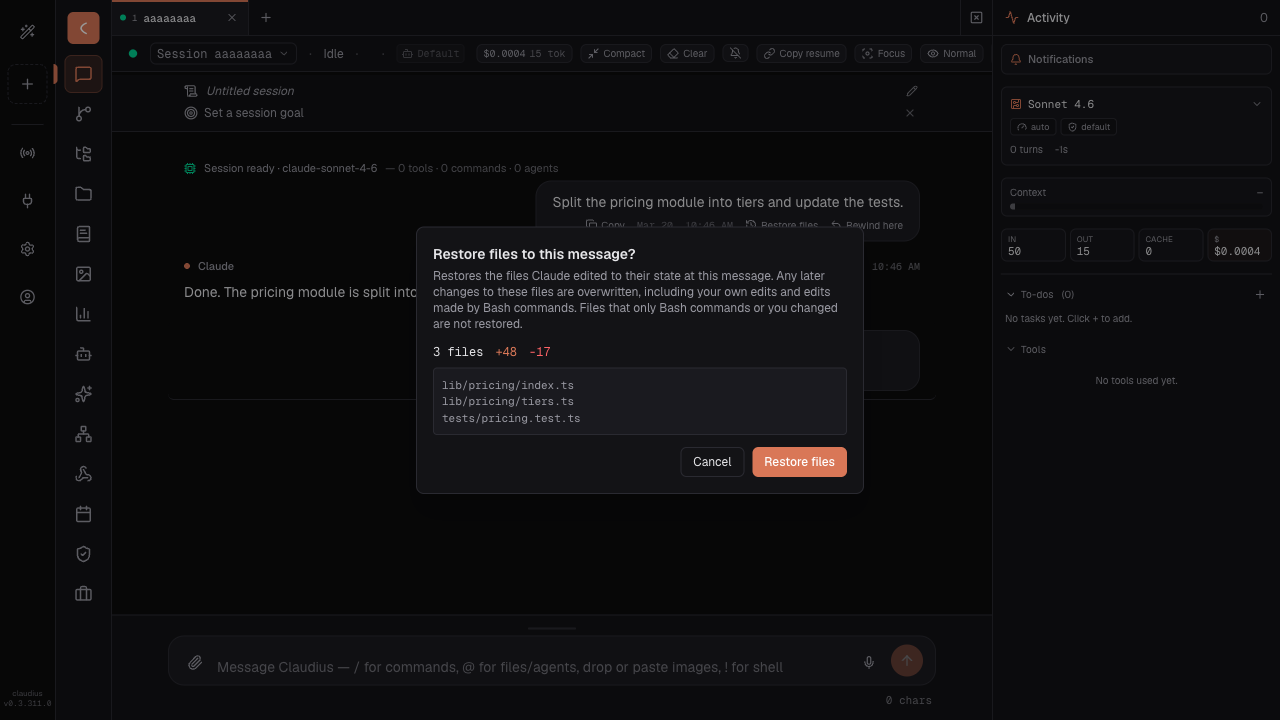
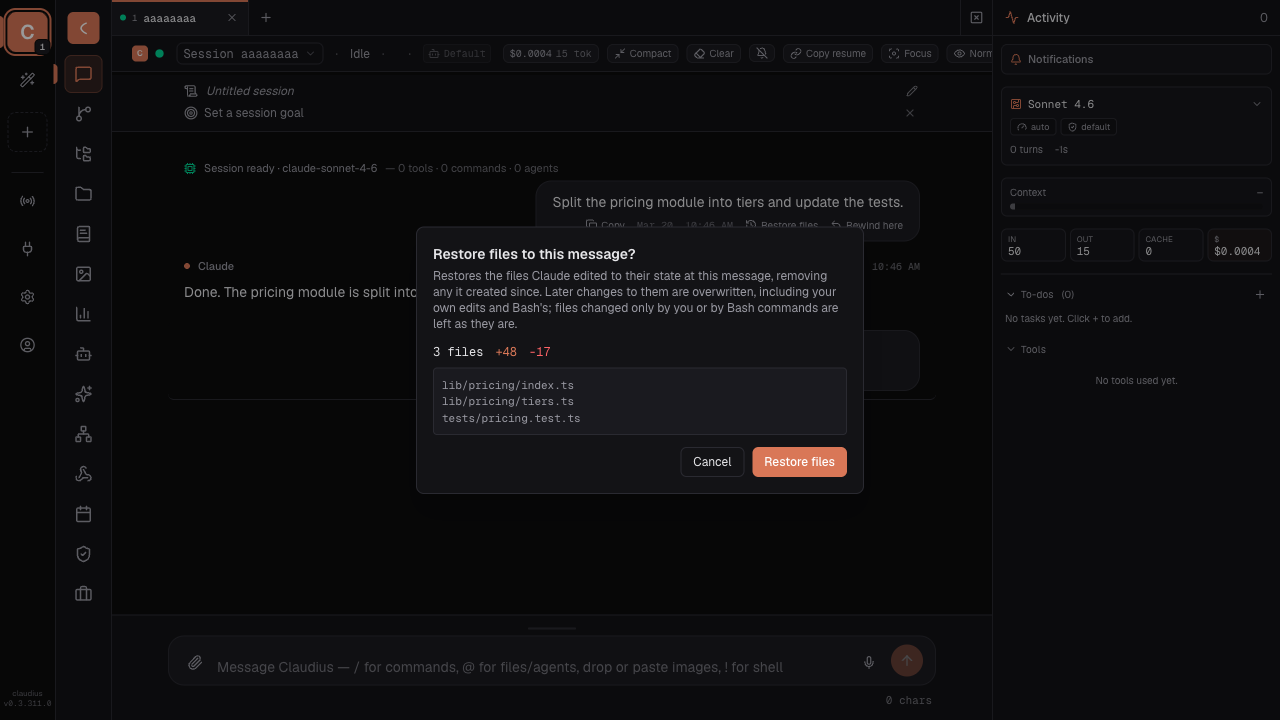
fix(cc-parity): refused sign-in code starts over; tighter Restore files copy (2.1.311)
- isRefusedAuthCode excludes account_on_hold like the engine does: signing
  in again can't fix an on-hold account.
- The server spends the OAuth flow on every attempt, so after an error both
  sign-in forms (/usage Add account, /welcome) drop back to the sign-in
  button instead of a code box that can only answer "flow expired".
- e2e + screenshot for the refused-code message in the /usage Accounts form.
- Restore files copy: two sentences, and says files Claude created since are
  removed (rewindFiles restores or deletes tracked files).

diff --git a/tests/e2e/cc-parity-2.1.311-refused-sign-in-code.spec.ts b/tests/e2e/cc-parity-2.1.311-refused-sign-in-code.spec.ts
@@ -1,0 +1,82 @@
+/**
+ * CC 2.1.311 parity — "Improved the message shown when a pasted sign-in code
+ * is refused: it now says the code may have expired or been used, and to sign
+ * in again".
+ *
+ * Claudius's "Add account" form on /usage runs its own paste-the-code OAuth
+ * flow (`lib/server/account-oauth.ts`). A refused code (`invalid_grant`, which
+ * OAuth servers send as a 400) used to surface as the raw
+ * `token exchange failed (400): {…}` body. It now reads the engine's string,
+ * and the form drops back to the sign-in button: the server spends the flow
+ * on every attempt, so the old code box could only answer "flow expired".
+ *
+ * `/api/accounts` and `/api/accounts/oauth` are mocked; the message itself is
+ * pinned against the real server code in
+ * `tests/unit/account-oauth-refused-code.test.ts`.
+ *
+ * Screenshot target: docs/cc-parity/2.1.311/refused-sign-in-code.png
+ */
+
+import { mkdirSync } from "node:fs";
+import { resolve } from "node:path";
+import { test, expect } from "../helpers/test";
+import { activateClaudiusWorkspace } from "./helpers/workspace";
+
+const SHOTS_DIR = resolve(process.cwd(), "docs/cc-parity/2.1.311");
+mkdirSync(SHOTS_DIR, { recursive: true });
+
+// Kept in step with REFUSED_AUTH_CODE_MESSAGE (server-only module, so not
+// imported into the browser-facing spec).
+const REFUSED =
+  "That code wasn't accepted. It may be incomplete, expired, already used, or from an earlier sign-in attempt. Sign in again to get a new code.";
+
+test.beforeEach(async ({ page }) => {
+  await activateClaudiusWorkspace(page);
+  await page.addInitScript(() => {
+    // The flow opens the sign-in page in a new tab; keep the test in one.
+    window.open = () => null;
+  });
+  await page.route("**/api/accounts", async (route) => {
+    if (route.request().method() !== "GET") return route.fallback();
+    return route.fulfill({
+      status: 200,
+      contentType: "application/json",
+      body: JSON.stringify({ profiles: [], activeProfileId: null, autoRotateOnRateLimit: false }),
+    });
+  });
+  await page.route("**/api/accounts/oauth", async (route) => {
+    const body = route.request().postDataJSON() as { action?: string };
+    if (body.action === "start") {
+      return route.fulfill({
+        status: 200,
+        contentType: "application/json",
+        body: JSON.stringify({ flowId: "flow-311", authUrl: "https://claude.ai/oauth/authorize?state=x" }),
+      });
+    }
+    return route.fulfill({
+      status: 400,
+      contentType: "application/json",
+      body: JSON.stringify({ error: REFUSED }),
+    });
+  });
+});
+
+test("a refused pasted sign-in code says to sign in again, and the form starts over", async ({ page }) => {
+  await page.goto("/usage");
+  await page.getByTestId("accounts-add-btn").click();
+  await page.getByTestId("account-add-label").fill("Work");
+  await page.getByTestId("account-oauth-start").click();
+  await page.getByTestId("account-oauth-code").fill("stale-code#x");
+  await page.getByTestId("account-oauth-submit").click();
+
+  const error = page.getByTestId("account-add-error");
+  await expect(error).toHaveText(REFUSED);
+  await expect(error).not.toContainText("token exchange failed");
+  // The spent flow is gone: the code box is replaced by the sign-in button.
+  await expect(page.getByTestId("account-oauth-code")).toHaveCount(0);
+  await expect(page.getByTestId("account-oauth-start")).toBeVisible();
+
+  const section = page.getByTestId("accounts-add-btn").or(page.getByTestId("account-add-label")).first();
+  await section.scrollIntoViewIfNeeded();
+  await page.screenshot({ path: resolve(SHOTS_DIR, "refused-sign-in-code.png") });
+});

diff --git a/components/chat/RewindFilesButton.tsx b/components/chat/RewindFilesButton.tsx
@@ -183,12 +183,14 @@ function RewindPreview({
           old copy ("Unsaved later edits … will be lost") implied saved edits
           were safe. The SDK's `rewindFiles` writes each checkpointed file
           back whatever changed it since, so later manual and Bash edits to
-          these files are overwritten too. Files that only Bash or the user
-          touched aren't checkpointed, so they're left as they are. */}
+          these files are overwritten too, and files Claude created since are
+          removed (`rewindFiles` restores or deletes tracked files). Files that
+          only Bash or the user touched aren't checkpointed, so they're left as
+          they are. */}
       <p data-testid="restore-files-preview-note" className="mb-3 text-xs text-[var(--muted)]">
-        Restores the files Claude edited to their state at this message. Any later changes to these
-        files are overwritten, including your own edits and edits made by Bash commands. Files that
-        only Bash commands or you changed are not restored.
+        Restores the files Claude edited to their state at this message, removing any it created
+        since. Later changes to them are overwritten, including your own edits and Bash&apos;s; files
+        changed only by you or by Bash commands are left as they are.
       </p>
       <FileStat result={result} />
       <div className="flex justify-end gap-2">

diff --git a/app/usage/page.tsx b/app/usage/page.tsx
@@ -751,6 +751,11 @@ function AccountsSection({
       reset();
     } catch (err) {
       setAddError(err instanceof Error ? err.message : String(err));
+      // The server spends the flow on every attempt, so the code box would
+      // only answer "flow expired" next time. Drop back to the start button
+      // so the user can sign in again, as the error tells them to (CC 2.1.311).
+      setFlow(null);
+      setOauthCode("");
     } finally {
       setBusy(false);
     }
@@ -1307,7 +1312,10 @@ function AccountsSection({
           )}
 
           {addError && (
-            <div className="rounded-md border border-amber-400/40 bg-amber-400/10 px-2 py-1 text-[11px] text-amber-300">
+            <div
+              data-testid="account-add-error"
+              className="rounded-md border border-amber-400/40 bg-amber-400/10 px-2 py-1 text-[11px] text-amber-300"
+            >
               {addError}
             </div>
           )}

diff --git a/tests/e2e/cc-parity-2.1.311-restore-files-copy.spec.ts b/tests/e2e/cc-parity-2.1.311-restore-files-copy.spec.ts
@@ -134,9 +134,9 @@ test("the Restore files preview says later manual and Bash edits are overwritten
   await expect(dialog.getByText("3 files")).toBeVisible();
 
   const note = page.getByTestId("restore-files-preview-note");
-  await expect(note).toContainText("Any later changes to these files are overwritten");
-  await expect(note).toContainText("including your own edits and edits made by Bash commands");
-  await expect(note).toContainText("Files that only Bash commands or you changed are not restored.");
+  await expect(note).toContainText("removing any it created since");
+  await expect(note).toContainText("Later changes to them are overwritten, including your own edits and Bash's");
+  await expect(note).toContainText("files changed only by you or by Bash commands are left as they are.");
   // The old wording implied saved edits were safe.
   await expect(note).not.toContainText("Unsaved");
 

diff --git a/lib/server/account-oauth.ts b/lib/server/account-oauth.ts
@@ -186,6 +186,9 @@ export function isRefusedAuthCode(status: number, bodyText: string): boolean {
     return false;
   }
   if (!body || typeof body !== "object") return false;
+  // The engine excludes an on-hold account: signing in again can't fix that,
+  // so it keeps its own (raw) message instead of "Sign in again".
+  if ((body as { error_description?: unknown }).error_description === "account_on_hold") return false;
   const err = (body as { error?: unknown }).error;
   if (err === "invalid_grant") return true;
   // Tolerate the Anthropic API's nested error envelope too.

diff --git a/components/welcome/WelcomeSplash.tsx b/components/welcome/WelcomeSplash.tsx
@@ -91,6 +91,11 @@ export function WelcomeSplash() {
       setOauthCode("");
     } catch (err) {
       setLoginError(err instanceof Error ? err.message : "Sign-in failed");
+      // The server spends the flow on every attempt, so the code box would
+      // only answer "flow expired" next time. Drop back to "Sign in" so the
+      // user can start over, as the error tells them to (CC 2.1.311).
+      setOauthFlow(null);
+      setOauthCode("");
     } finally {
       setLoginBusy(false);
     }

diff --git a/tests/unit/account-oauth-refused-code.test.ts b/tests/unit/account-oauth-refused-code.test.ts
@@ -39,6 +39,12 @@ describe("isRefusedAuthCode", () => {
     expect(isRefusedAuthCode(400, "Bad Request")).toBe(false);
     expect(isRefusedAuthCode(400, "")).toBe(false);
   });
+
+  test("an on-hold account is not told to sign in again (engine exclusion)", () => {
+    expect(
+      isRefusedAuthCode(400, '{"error":"invalid_grant","error_description":"account_on_hold"}'),
+    ).toBe(false);
+  });
 });
 
 describe("exchangeOAuthCode — refused code", () => {
